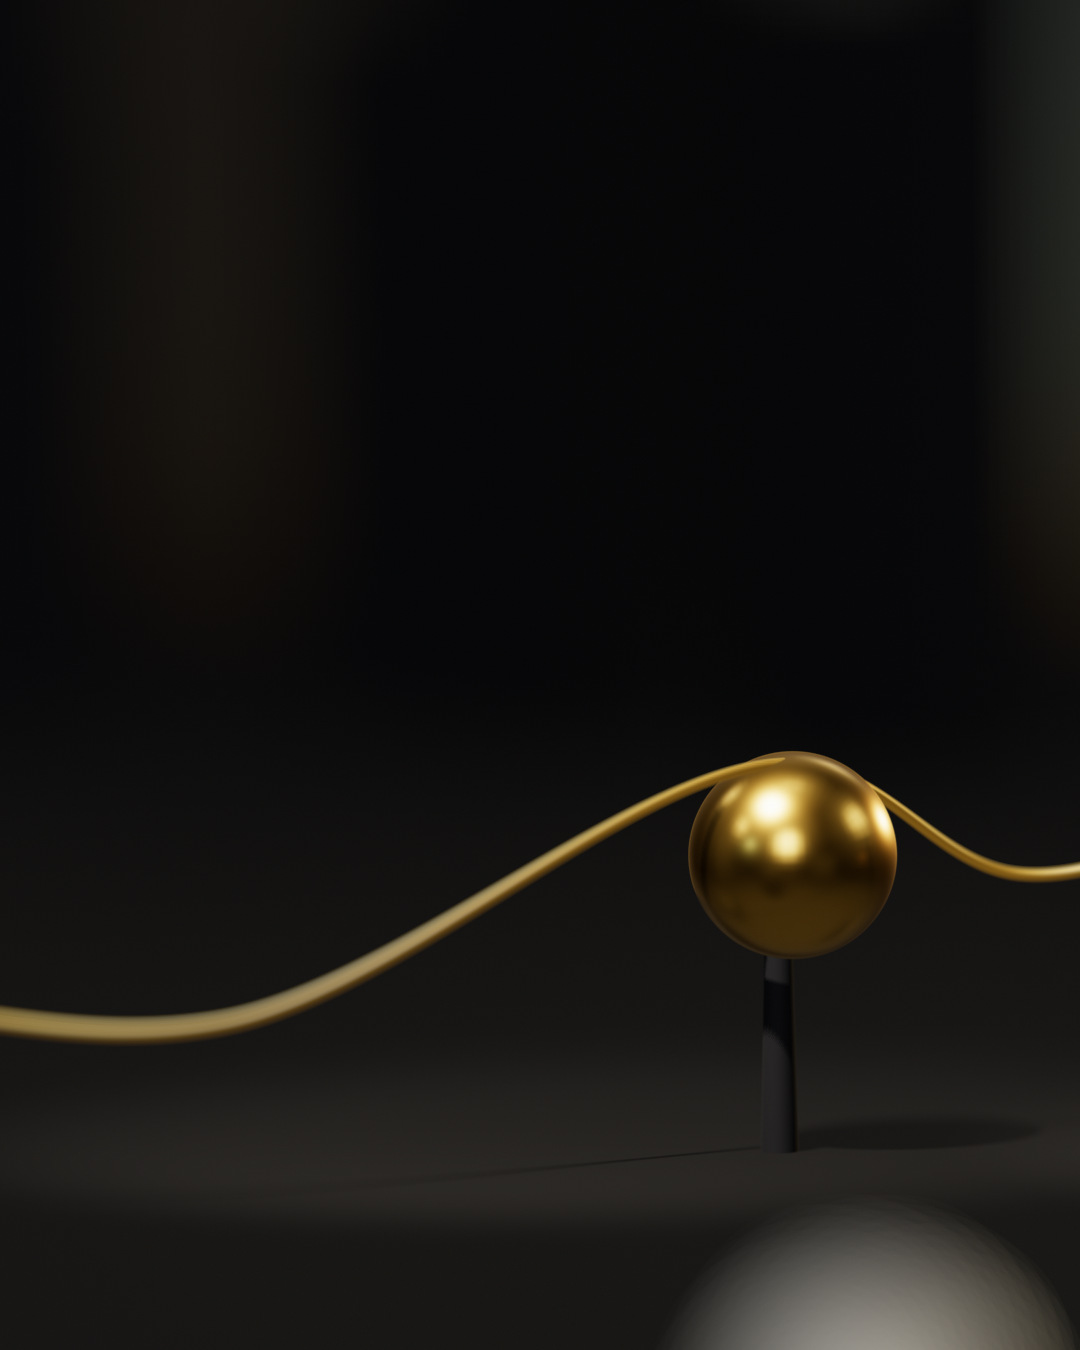
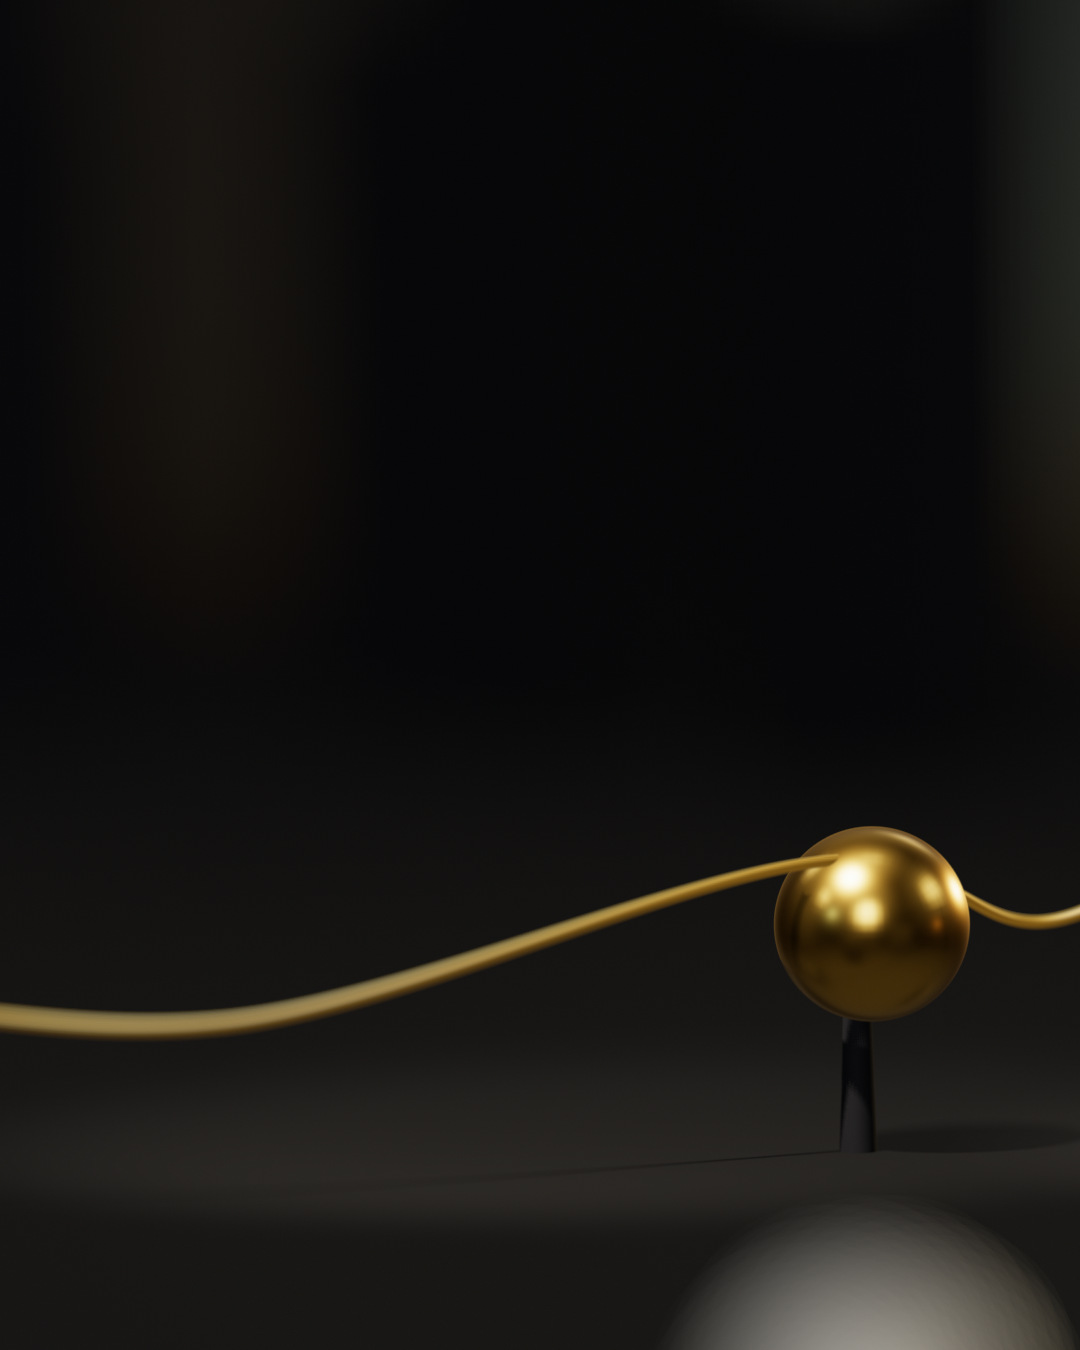
Portada B: la esfera baja y se aleja del titular

Changed region(s): [[0.2139, 0.56, 1.0, 0.7778], [0.0, 0.7467, 0.1833, 0.7778]]

diff --git a/marca/sistema-diseno/escenas/dinero-expectativa-b.html b/marca/sistema-diseno/escenas/dinero-expectativa-b.html
@@ -11,7 +11,7 @@ import { crearMundo, THREE } from './mundo.js';
 const M = crearMundo({ teselas: 4, semilla: 20260925 });
 const { cx, mat, malla, esfera, caja, cil, hilo, fijar, halo, scene } = M; const PI = Math.PI;
 const espejo = new THREE.MeshPhysicalMaterial({ color: 0x2b2b31, roughness: 0.05, metalness: 0.2, clearcoat: 1, clearcoatRoughness: 0.03, reflectivity: 1 });
-/* 0 · frágil: la esfera en equilibrio sobre una columna delgada */ { const x = cx(0) + 1.5; cil(0.09, 0.12, 1.3, mat.piedra, x, 0.65, 0); esfera(0.66, mat.oro, x + 0.1, 1.3 + 0.6, 0.05); }
+/* 0 · frágil: la esfera en equilibrio sobre una columna delgada */ { const x = cx(0) + 2.0; cil(0.09, 0.12, 0.9, mat.piedra, x, 0.45, 0); esfera(0.62, mat.oro, x + 0.1, 0.9 + 0.56, 0.05); }
 /* 1 · aprendido: la misma esfera asentada en un aro que la sostiene */ { const x = cx(1) + 0.4; const a = malla(new THREE.TorusGeometry(0.62, 0.09, 24, 96), mat.hueso, x, 0.09, 0); a.rotation.x = PI / 2; esfera(0.66, mat.oro, x, 0.6, 0); }
 /* 2 */ { const x = cx(2) + 0.5; const f = new THREE.Shape(); f.moveTo(-1.6, 0); f.lineTo(1.6, 0); f.lineTo(1.6, 3.0); f.lineTo(-1.6, 3.0); f.closePath(); const h = new THREE.Path(); h.absarc(0, 1.5, 0.92, 0, PI * 2, true); f.holes.push(h);
   const g = new THREE.ExtrudeGeometry(f, { depth: 0.36, bevelEnabled: true, bevelSize: 0.03, bevelThickness: 0.03, bevelSegments: 3, curveSegments: 96 }); const losa = malla(g, mat.grafito, x, 0, -0.18); losa.rotation.y = 0.38; esfera(0.6, mat.oro, x + 0.05, 1.5, 0.02); }
@@ -19,7 +19,7 @@ const espejo = new THREE.MeshPhysicalMaterial({ color: 0x2b2b31, roughness: 0.05
   const luz = new THREE.Mesh(new THREE.PlaneGeometry(hueco + 0.5, alto), new THREE.MeshBasicMaterial({ color: new THREE.Color(2.1, 1.32, 0.42), fog: false })); luz.position.set(x, alto / 2, -0.7); scene.add(luz);
   const p = new THREE.PointLight(0xE7B45A, 260, 22, 2); p.position.set(x, 1.8, 1.4); scene.add(p); halo('rgba(200,140,55,1)', x, 2.2, -4, 14, 0.5);
   fijar(esfera(0.62, mat.oro, x - 2.4, 0.62, 2.4)); }
-hilo([[cx(0) - 4.5, 1.4, 3], [cx(0) - 1.8, 1.1, 2.4], [cx(0) + 1.6, 2.5, 0.2], [cx(0) + 3.2, 1.8, -0.6],
+hilo([[cx(0) - 4.5, 1.4, 3], [cx(0) - 1.8, 1.1, 2.4], [cx(0) + 2.1, 1.9, 0.3], [cx(0) + 3.4, 1.5, -0.6],
   [cx(1) - 2.0, 1.7, -0.6], [cx(1) + 0.4, 1.55, 0.1], [cx(1) + 2.6, 2.0, 0.8],
   [cx(2) - 1.8, 1.7, 1.4], [cx(2) + 0.65, 1.5, 0.15], [cx(2) + 2.9, 1.9, -1.0],
   [cx(3) - 2.4, 1.7, 1.6], [cx(3) - 1.4, 1.25, 2.4], [cx(3) + 1.0, 1.3, 0.8], [cx(3) + 1.0, 1.3, -7]]);
